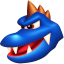
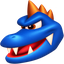
Refresh shared Krusha portrait and startup silhouette with supplied art

diff --git a/build/barrel_assets.py b/build/barrel_assets.py
@@ -1,4 +1,4 @@
-"""Six-face tag barrel, using the approved T portrait and native materials.
+"""Six-face tag barrel, using the current approved portrait and native materials.
 
 Keep the original model and texture table untouched. Custom uncompressed files
 in previously unused pointer table 27 use the native resource loader.
@@ -21,7 +21,7 @@ SCALE = 1.15
 
 
 def prepare_startup_logo():
-    """Keep the user's final adjusted startup PNG unchanged across builds."""
+    """Validate the prepared startup PNG; builds do not resample it."""
     with Image.open(ROOT/'bin/Nintendo_Krusha.png') as logo:
         width, height = logo.size
         assert (width, height) == (232, 48)

diff --git a/build/character_colors.py b/build/character_colors.py
@@ -6,7 +6,7 @@ from PIL import Image
 
 ROOT = Path(__file__).resolve().parent.parent
 SHOCKWAVE_TEXTURE_IDS = tuple(range(7003, 7009))
-SHOCKWAVE_SECONDARY_COLOR = (160, 176, 196)  # #A0B0C4, cool blue-gray spikes
+SHOCKWAVE_SECONDARY_COLOR = (160, 176, 224)  # #A0B0E0, cool blue-gray spikes
 
 
 def identity_color():
